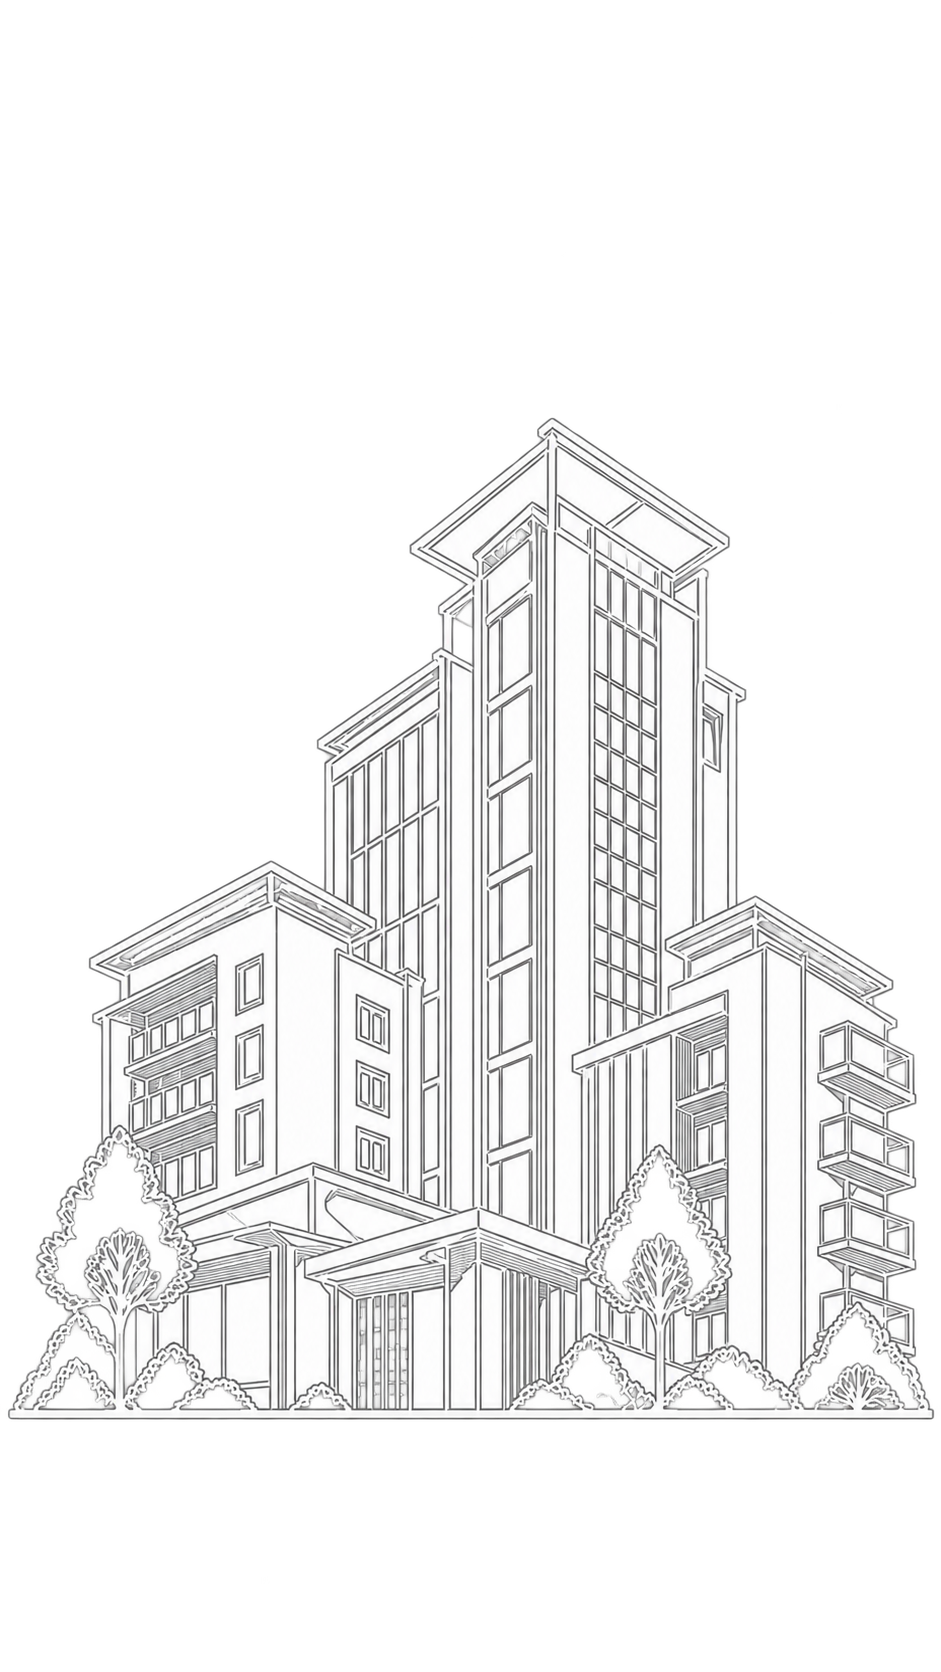
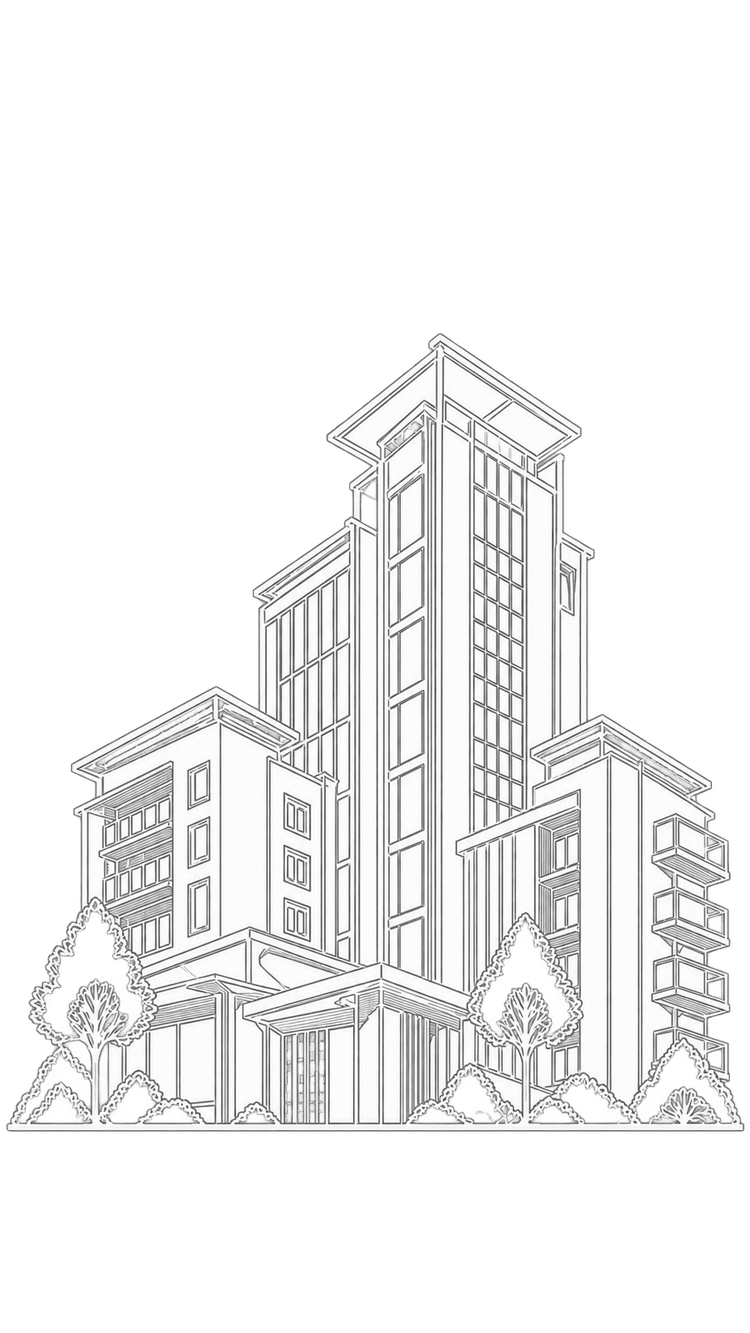
feat: update mobile footer sketch background and replace project inquiry form with Inquire button

diff --git a/src/pages/ProjectDetails.tsx b/src/pages/ProjectDetails.tsx
@@ -8,8 +8,7 @@ import {
   Phone,
   MessageSquare,
   Maximize2,
-  X,
-  CheckCircle2
+  X
 } from 'lucide-react';
 import { projectData, WHATSAPP_NUMBER, OFFICE_PHONE_1 } from '../data';
 import { InquiryModal } from '../components/ui/InquiryModal';
@@ -43,15 +42,6 @@ export const ProjectDetails: React.FC = () => {
 
   // Inquiry modal state
   const [isModalOpen, setIsModalOpen] = useState(false);
-  const [formSubmitted, setFormSubmitted] = useState(false);
-  const [inquiryForm, setInquiryForm] = useState({
-    name: '',
-    countryCode: '+91',
-    phone: '',
-    email: '',
-    configuration: '',
-    message: '',
-  });
 
   const isScrollingRef = useRef(false);
 
@@ -101,21 +91,7 @@ export const ProjectDetails: React.FC = () => {
     }
   };
 
-  const handleInquirySubmit = (e: React.FormEvent) => {
-    e.preventDefault();
-    setFormSubmitted(true);
-    setTimeout(() => {
-      setFormSubmitted(false);
-      setInquiryForm({
-        name: '',
-        countryCode: '+91',
-        phone: '',
-        email: '',
-        configuration: '',
-        message: '',
-      });
-    }, 3500);
-  };
+
 
   // Specs keys
   const specKeys = Object.keys(project.specifications);
@@ -774,114 +750,32 @@ export const ProjectDetails: React.FC = () => {
           </p>
 
           <div className="mt-[40px] lg:mt-[3.125vw] grid grid-cols-1 lg:grid-cols-[31.771vw_1fr] gap-[40px] lg:gap-[8.281vw] items-start lg:divide-x lg:divide-[#33333322]">
-            {/* Left Inquiry Form */}
-            <form onSubmit={handleInquirySubmit} className="flex flex-col gap-[28px] lg:gap-[2.344vw] w-full">
-              {formSubmitted ? (
-                <div className="p-6 bg-green-50 border border-green-200 rounded-lg text-center">
-                  <CheckCircle2 className="w-10 h-10 text-green-600 mx-auto mb-2" />
-                  <h4 className="text-green-800 font-semibold text-lg">Inquiry Received!</h4>
-                  <p className="text-green-700 text-sm mt-1">Our sales team will contact you shortly.</p>
-                </div>
-              ) : (
-                <>
-                  <label className="flex flex-col gap-[14px] lg:gap-[1.302vw] w-full">
-                    <div className="flex items-center gap-[10px] lg:gap-[0.521vw] w-full">
-                      <input
-                        type="text"
-                        required
-                        placeholder="Full Name*"
-                        value={inquiryForm.name}
-                        onChange={(e) => setInquiryForm({ ...inquiryForm, name: e.target.value })}
-                        className="flex-1 bg-transparent outline-none border-none text-[#333] placeholder:text-[#888] text-[15px] sm:text-[18px] lg:text-[1.094vw] leading-[26px] sm:leading-[30px]"
-                      />
-                    </div>
-                    <div className="h-px w-full bg-[#33333322]" />
-                  </label>
+            {/* Left Inquiry Action Card */}
+            <div className="flex flex-col justify-between gap-[24px] lg:gap-[1.8vw] w-full bg-[#faf9f7] p-6 sm:p-8 lg:p-[2.2vw] rounded-[8px] border border-[#eee]">
+              <div className="flex flex-col gap-3">
+                <span className="text-xs uppercase tracking-widest text-[#ef493d] font-bold">Direct Developer Assistance</span>
+                <h3
+                  className="text-[#333] text-[24px] sm:text-[30px] lg:text-[1.8vw] leading-[1.2]"
+                  style={{ fontFamily: 'var(--font-display)', fontWeight: 400 }}
+                >
+                  Inquire About {project.name}
+                </h3>
+                <p className="text-[#555] text-[14px] sm:text-[16px] lg:text-[0.938vw] leading-relaxed">
+                  Interested in pricing, floor plans, or booking a private site visit for {project.name}? Click below to submit your inquiry directly to our sales advisors.
+                </p>
+              </div>
 
-                  <label className="flex flex-col gap-[14px] lg:gap-[1.302vw] w-full">
-                    <div className="flex items-center gap-[10px] lg:gap-[0.521vw] w-full">
-                      <div className="relative inline-flex items-center shrink-0 w-[4.75rem] lg:w-[5vw] text-[#333] text-[15px] sm:text-[18px] lg:text-[1.094vw]">
-                        <select
-                          aria-label="Country code"
-                          value={inquiryForm.countryCode}
-                          onChange={(e) => setInquiryForm({ ...inquiryForm, countryCode: e.target.value })}
-                          className="w-full appearance-none bg-transparent outline-none border-none cursor-pointer pr-[14px] font-medium"
-                        >
-                          <option value="+91">🇮🇳 +91</option>
-                          <option value="+1">🇺🇸 +1</option>
-                          <option value="+44">🇬🇧 +44</option>
-                          <option value="+971">🇦🇪 +971</option>
-                        </select>
-                        <ChevronDown className="pointer-events-none absolute right-0 w-[12px] h-[12px] opacity-60" />
-                      </div>
-                      <input
-                        type="tel"
-                        required
-                        placeholder="Phone Number*"
-                        value={inquiryForm.phone}
-                        onChange={(e) => setInquiryForm({ ...inquiryForm, phone: e.target.value })}
-                        className="flex-1 bg-transparent outline-none border-none text-[#333] placeholder:text-[#888] text-[15px] sm:text-[18px] lg:text-[1.094vw] leading-[26px] sm:leading-[30px]"
-                      />
-                    </div>
-                    <div className="h-px w-full bg-[#33333322]" />
-                  </label>
-
-                  <label className="flex flex-col gap-[14px] lg:gap-[1.302vw] w-full">
-                    <div className="flex items-center gap-[10px] lg:gap-[0.521vw] w-full">
-                      <input
-                        type="email"
-                        required
-                        placeholder="Email Address*"
-                        value={inquiryForm.email}
-                        onChange={(e) => setInquiryForm({ ...inquiryForm, email: e.target.value })}
-                        className="flex-1 bg-transparent outline-none border-none text-[#333] placeholder:text-[#888] text-[15px] sm:text-[18px] lg:text-[1.094vw] leading-[26px] sm:leading-[30px]"
-                      />
-                    </div>
-                    <div className="h-px w-full bg-[#33333322]" />
-                  </label>
-
-                  <label className="flex flex-col gap-[14px] lg:gap-[1.302vw] w-full">
-                    <div className="relative flex items-center">
-                      <select
-                        required
-                        value={inquiryForm.configuration}
-                        onChange={(e) => setInquiryForm({ ...inquiryForm, configuration: e.target.value })}
-                        className="appearance-none w-full bg-transparent outline-none border-none text-[#333] text-[15px] sm:text-[18px] lg:text-[1.094vw] leading-[26px] sm:leading-[30px] pr-[24px] cursor-pointer"
-                      >
-                        <option value="" disabled>Interested Configuration*</option>
-                        {project.configurations.map((cfg, cIdx) => (
-                          <option key={cIdx} value={cfg}>{cfg}</option>
-                        ))}
-                      </select>
-                      <ChevronDown className="pointer-events-none absolute right-0 text-[#5f5f5f] w-[16px] h-[16px] lg:w-[1.094vw] lg:h-[1.094vw]" />
-                    </div>
-                    <div className="h-px w-full bg-[#33333322]" />
-                  </label>
-
-                  <label className="flex flex-col gap-[14px] lg:gap-[1.302vw] w-full">
-                    <div className="flex items-center gap-[10px] lg:gap-[0.521vw] w-full">
-                      <input
-                        type="text"
-                        placeholder="Message"
-                        value={inquiryForm.message}
-                        onChange={(e) => setInquiryForm({ ...inquiryForm, message: e.target.value })}
-                        className="flex-1 bg-transparent outline-none border-none text-[#333] placeholder:text-[#888] text-[15px] sm:text-[18px] lg:text-[1.094vw] leading-[26px] sm:leading-[30px]"
-                      />
-                    </div>
-                    <div className="h-px w-full bg-[#33333322]" />
-                  </label>
-
-                  <div className="flex items-center gap-[16px] lg:gap-[1.354vw] flex-wrap pt-2">
-                    <button
-                      type="submit"
-                      className="inline-flex items-center justify-center rounded-[2px] border border-[#ef493d] text-[#ef493d] capitalize h-[48px] sm:h-[54px] lg:h-[3.021vw] w-[180px] sm:w-[210px] lg:w-[11.667vw] text-[14px] sm:text-[16px] lg:text-[0.938vw] font-medium transition-colors duration-300 hover:bg-[#ef493d] hover:text-white cursor-pointer"
-                    >
-                      Submit Inquiry
-                    </button>
-                  </div>
-                </>
-              )}
-            </form>
+              <div className="pt-2">
+                <button
+                  type="button"
+                  onClick={() => setIsModalOpen(true)}
+                  className="inline-flex items-center justify-center gap-2 rounded-[2px] border border-[#ef493d] bg-[#ef493d] hover:bg-[#d63d32] text-white h-[48px] sm:h-[54px] lg:h-[3.021vw] px-8 text-[15px] sm:text-[16px] lg:text-[0.938vw] font-medium tracking-wide transition-all duration-300 shadow-sm hover:shadow-md cursor-pointer"
+                >
+                  <MessageSquare className="w-4 h-4" />
+                  <span>Inquire</span>
+                </button>
+              </div>
+            </div>
 
             {/* Right Regulatory & Official Project Information */}
             <div className="flex flex-col gap-[36px] lg:gap-[4.2vw] w-full lg:pl-[3.385vw]">

diff --git a/src/components/layout/Footer.tsx b/src/components/layout/Footer.tsx
@@ -25,15 +25,27 @@ export const Footer = () => {
       >
         {/* ─── Architectural Background ───────── */}
         <div className="absolute inset-0 pointer-events-none z-0 flex items-end justify-center overflow-hidden">
-          {/* Architectural Skyline Background (Desktop & Mobile Synced) */}
+          {/* Architectural Skyline Background for Desktop */}
           <img
             src="/images/footer-skyline.png"
             alt=""
             aria-hidden="true"
             loading="lazy"
             decoding="async"
-            className="w-full max-w-[1800px] h-auto object-contain object-bottom opacity-20 select-none"
+            className="hidden sm:block w-full max-w-[1800px] h-auto object-contain object-bottom opacity-20 select-none"
           />
+          {/* Architectural Building Sketch for Mobile Viewport */}
+          <picture className="block sm:hidden w-full h-full flex items-end justify-center">
+            <source srcSet="/images/footer-mobile-building.webp" type="image/webp" />
+            <img
+              src="/images/footer-mobile-building.png"
+              alt=""
+              aria-hidden="true"
+              loading="lazy"
+              decoding="async"
+              className="w-auto h-auto max-h-[85%] max-w-[85%] object-contain object-bottom opacity-25 select-none mx-auto"
+            />
+          </picture>
           {/* Subtle gradient blend */}
           <div className="absolute inset-0 bg-gradient-to-t from-[#2A2828]/60 via-transparent to-[#2A2828]/90" />
         </div>
